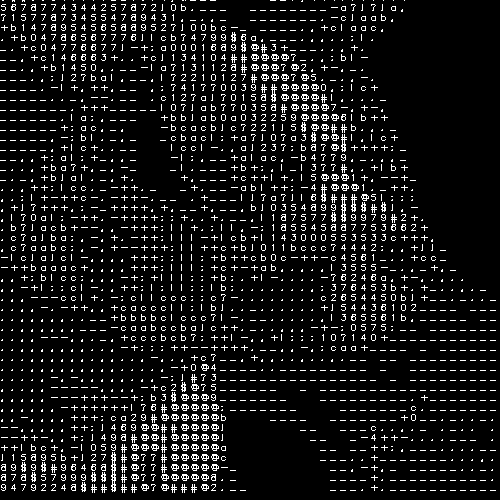
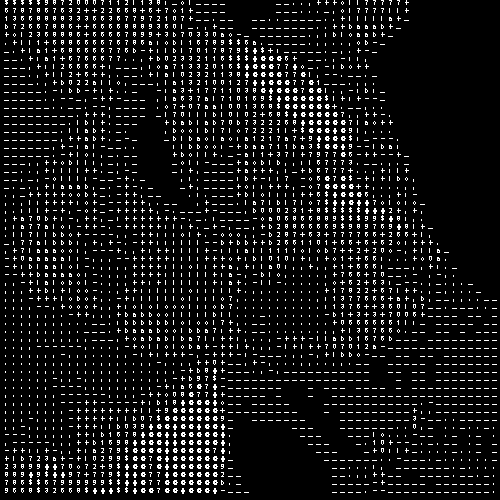
change font and size

diff --git a/generate_ascii.cpp b/generate_ascii.cpp
@@ -17,12 +17,12 @@ int main() {
 
 	Mat img(500, 500, CV_8UC3, Scalar(0, 0, 0));
 
-	int jump = 10;
+	int jump = 8;
 
 	cout << input_img.channels() << endl;
 
-	for (int i = 0; i < 500; i+=jump) {
-		for (int j = 0; j < 500; j+=jump) {
+	for (int i = 0; i < 500-jump+1; i+=jump) {
+		for (int j = 0; j < 500-jump+1; j+=jump) {
 			Range rows(i, i + jump);
 			Range cols(j, j + jump);
 			int mean = floor((sum(input_img(rows, cols))[0]) / (jump * jump));
@@ -30,9 +30,9 @@ int main() {
 			double tmp = (mean / 255.0) * letters.size();
 			int letter_selector = round(tmp);
 
-			Point org(j, i);
+			Point org(j+jump/2, i+jump/2);
 			string selected_letter(1, letters[letter_selector]);
-			putText(img, selected_letter, org, FONT_HERSHEY_SIMPLEX, 0.3, Scalar(255, 255, 255), 1);
+			putText(img, selected_letter, org, FONT_HERSHEY_PLAIN, 0.4, Scalar(255, 255, 255), 1);
 		}
 	}
 
